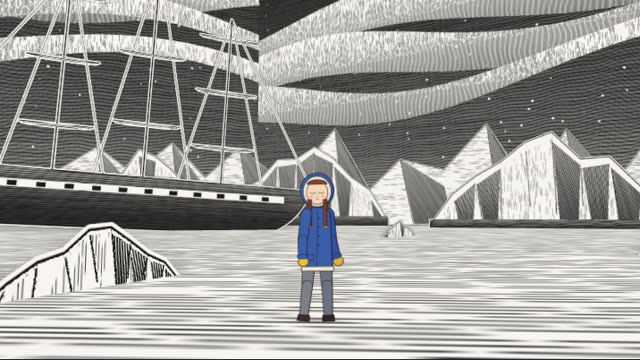
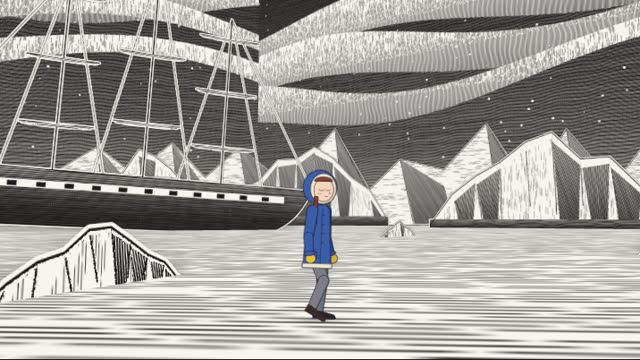
engraving-collage-film: no more teleports — sequential moves, a path check, re-blocked acts
A walk's natural duration ran past the next act's start, so the root jumped to the walk's end (up to 3 m in a frame).
Moves now run one after another (a walk without dur ends at the next move; other overlaps queue); check.mjs fails a
root that moves > 0.35 m in a frame, a walk hurried past 1.5×, a queued act. Walk stride 1.2 leg (0.83 m/s), jump air
travel at constant speed, leaps ≈ 2 m; both pieces re-blocked; samples, demo copies, docs and LESSONS updated.
CONTRIBUTING: the motion checks now include the root path (teleports).

Claude-Session: https://claude.ai/code/session_01LWivNfDGNNAYazJS3JgjnJ

Changed region(s): [[0.4375, 0.4583, 0.5625, 0.9167]]

diff --git a/docs/engraving-collage-film/demo/lib/film.js b/docs/engraving-collage-film/demo/lib/film.js
@@ -27,13 +27,24 @@ class Track {
     this.stride = { walk: strideOf(ch, 'walk') * this.mpp, run: strideOf(ch, 'run') * this.mpp };
     // build segments with absolute times and endpoints
     let pos = [...this.start.pos], face = this.start.face, view = this.start.view;
-    this.segs = []; this.events = [];
+    this.segs = []; this.events = []; this.issues = [];
+    // moves (walk / run / turn / do) happen one after another, never on top of each other — an overlap would make the
+    // root jump to the end of the unfinished move (a teleport). A walk / run without its own dur ends when the next move
+    // starts (it hurries; check.mjs fails one hurried past 1.5× its natural speed); any other overlap queues the next move.
+    const moves = acts.slice(1).filter(a => a.walk || a.run || a.turn || a.do).map(a => a.t ?? 0);
+    let busyUntil = -1e9;
     for (const a of acts.slice(1)) {
-      const t = a.t ?? 0;
+      let t = a.t ?? 0;
+      const isMove = a.walk || a.run || a.turn || a.do;
+      if (isMove && t < busyUntil - 1e-6) { this.issues.push({ kind: 'queued', what: a.walk ? 'walk' : a.run ? 'run' : a.turn ? 'turn' : a.do, asked: t, at: +busyUntil.toFixed(2) }); t = busyUntil; }
+      const nextMove = moves.find(m => m > (a.t ?? 0) + 1e-6);
       if (a.walk || a.run) {
         const gait = a.walk ? 'walk' : 'run', to = a.walk || a.run, p1 = [to[0], to.length > 2 ? to[1] : pos[1], to.length > 2 ? to[2] : to[1]];
         const dist = Math.hypot(p1[0] - pos[0], p1[2] - pos[2]), speed = this.stride[gait] / (GAIT_PERIOD[gait] * ch.mass);
-        const dur = a.dur ?? dist / speed * 1.18;
+        const natural = dist / speed * 1.18;
+        let dur = a.dur ?? natural;
+        if (a.dur == null && nextMove != null && t + dur > nextMove) dur = Math.max(0.3, nextMove - t);
+        if (dur < natural / 1.5) this.issues.push({ kind: 'hurried', what: gait, at: t, x: +(natural / dur).toFixed(2) });
         const f = a.face ?? film.screenFacing(shot, pos, p1, t + dur / 2) ?? face;
         const seg = { kind: gait, t0: t, t1: t + dur, p0: [...pos], p1, face: f, view: a.view || (view === 'front' || view === 'back' ? 'side' : view), dist };
         // 2.5-D: the legs stride across the card, so the cycle advances by the travel ACROSS the screen (the depth part of a
@@ -44,15 +55,15 @@ class Track {
           acc += Math.abs(v3.dot(v3.sub(P, prevP), r)); seg.lat.push(acc); prevP = P;
         }
         seg.latFrac = dist > 1e-6 ? acc / dist : 1;
-        this.segs.push(seg);
+        this.segs.push(seg); busyUntil = t + dur;
         pos = p1; face = f; view = a.view || (view === 'front' || view === 'back' ? 'side' : view);
       } else if (a.turn) {
         const dur = actionDur('turnStep', ch.mass);
-        this.segs.push({ kind: 'turn', t0: t, t1: t + dur, from: view, to: a.turn, face0: face, face1: a.face ?? face, at: [...pos] });
+        this.segs.push({ kind: 'turn', t0: t, t1: t + dur, from: view, to: a.turn, face0: face, face1: a.face ?? face, at: [...pos] }); busyUntil = t + dur;
         view = a.turn; face = a.face ?? face;
       } else if (a.do) {
         const dur = actionDur(a.do, ch.mass);
-        this.segs.push({ kind: 'do', name: a.do, t0: t, t1: t + dur, at: [...pos], to: a.to ? [a.to[0], pos[1], a.to[1]] : null, face, view });
+        this.segs.push({ kind: 'do', name: a.do, t0: t, t1: t + dur, at: [...pos], to: a.to ? [a.to[0], pos[1], a.to[1]] : null, face, view }); busyUntil = t + dur;
         if (a.to) pos = [a.to[0], pos[1], a.to[1]];
       }
       if (a.expr) this.events.push({ t, expr: a.expr });
@@ -68,7 +79,7 @@ class Track {
     for (const g of this.segs) {
       if (s < g.t0) break;
       if (g.kind === 'walk' || g.kind === 'run') { const u = clamp((s - g.t0) / (g.t1 - g.t0)); pos = v3.lerp(g.p0, g.p1, ease.dolly(u)); }
-      else if (g.kind === 'do' && g.to) { const A = ACTIONS[g.name], u = clamp(((s - g.t0) / this.ch.mass - 0.42) / 0.44); pos = v3.lerp(g.at, g.to, ease.sine(u)); }
+      else if (g.kind === 'do' && g.to) { const u = clamp(((s - g.t0) / this.ch.mass - 0.42) / 0.44); pos = v3.lerp(g.at, g.to, u); }   // in the air the horizontal speed is constant (ballistic)
       else pos = g.at || pos;
     }
     return pos;
@@ -289,7 +300,7 @@ export class Film {
     });
     /** bodies over the whole film: joint ranges, planted feet (world drift in comp px), facing vs screen motion, idle life */
     window.bodyAudit = () => {
-      audit.length = 0; const out = { audit: [], drift: [], facing: [], idle: [] };
+      audit.length = 0; const out = { audit: [], drift: [], facing: [], idle: [], moves: [] };
       for (const sh of this.shots) for (const [name, tr] of Object.entries(this.tracks[sh.i])) {
         const n = Math.round(sh.dur * this.FPS); let prev = null, maxDrift = 0, faceBad = 0, lastA = null, idleMove = 0, idleFrames = 0;
         for (let i = 0; i < n; i++) {
@@ -309,6 +320,8 @@ export class Film {
           lastA = st.angles;
           auditPose(ch, { angles: st.angles, view: st.view });
         }
+        let jump = 0, jumpAt = 0; for (let i = 1; i <= n; i++) { const a = tr.posAt((i - 1) / this.FPS), b = tr.posAt(i / this.FPS), d = Math.hypot(b[0] - a[0], b[1] - a[1], b[2] - a[2]); if (d > jump) { jump = d; jumpAt = i / this.FPS; } }
+        out.moves.push({ shot: sh.i, name, maxStep: +jump.toFixed(3), at: +jumpAt.toFixed(2), issues: tr.issues });
         out.drift.push({ shot: sh.i, name, px: +maxDrift.toFixed(2), across: Math.min(1, ...tr.segs.filter(g => g.lat).map(g => +g.latFrac.toFixed(2))) }); out.facing.push({ shot: sh.i, name, wrong: faceBad }); out.idle.push({ shot: sh.i, name, frames: idleFrames, maxStepDeg: +idleMove.toFixed(3) });
       }
       out.audit = [...new Set(audit)]; return out;

diff --git a/engraving-collage-film/lib/film.js b/engraving-collage-film/lib/film.js
@@ -27,13 +27,24 @@ class Track {
     this.stride = { walk: strideOf(ch, 'walk') * this.mpp, run: strideOf(ch, 'run') * this.mpp };
     // build segments with absolute times and endpoints
     let pos = [...this.start.pos], face = this.start.face, view = this.start.view;
-    this.segs = []; this.events = [];
+    this.segs = []; this.events = []; this.issues = [];
+    // moves (walk / run / turn / do) happen one after another, never on top of each other — an overlap would make the
+    // root jump to the end of the unfinished move (a teleport). A walk / run without its own dur ends when the next move
+    // starts (it hurries; check.mjs fails one hurried past 1.5× its natural speed); any other overlap queues the next move.
+    const moves = acts.slice(1).filter(a => a.walk || a.run || a.turn || a.do).map(a => a.t ?? 0);
+    let busyUntil = -1e9;
     for (const a of acts.slice(1)) {
-      const t = a.t ?? 0;
+      let t = a.t ?? 0;
+      const isMove = a.walk || a.run || a.turn || a.do;
+      if (isMove && t < busyUntil - 1e-6) { this.issues.push({ kind: 'queued', what: a.walk ? 'walk' : a.run ? 'run' : a.turn ? 'turn' : a.do, asked: t, at: +busyUntil.toFixed(2) }); t = busyUntil; }
+      const nextMove = moves.find(m => m > (a.t ?? 0) + 1e-6);
       if (a.walk || a.run) {
         const gait = a.walk ? 'walk' : 'run', to = a.walk || a.run, p1 = [to[0], to.length > 2 ? to[1] : pos[1], to.length > 2 ? to[2] : to[1]];
         const dist = Math.hypot(p1[0] - pos[0], p1[2] - pos[2]), speed = this.stride[gait] / (GAIT_PERIOD[gait] * ch.mass);
-        const dur = a.dur ?? dist / speed * 1.18;
+        const natural = dist / speed * 1.18;
+        let dur = a.dur ?? natural;
+        if (a.dur == null && nextMove != null && t + dur > nextMove) dur = Math.max(0.3, nextMove - t);
+        if (dur < natural / 1.5) this.issues.push({ kind: 'hurried', what: gait, at: t, x: +(natural / dur).toFixed(2) });
         const f = a.face ?? film.screenFacing(shot, pos, p1, t + dur / 2) ?? face;
         const seg = { kind: gait, t0: t, t1: t + dur, p0: [...pos], p1, face: f, view: a.view || (view === 'front' || view === 'back' ? 'side' : view), dist };
         // 2.5-D: the legs stride across the card, so the cycle advances by the travel ACROSS the screen (the depth part of a
@@ -44,15 +55,15 @@ class Track {
           acc += Math.abs(v3.dot(v3.sub(P, prevP), r)); seg.lat.push(acc); prevP = P;
         }
         seg.latFrac = dist > 1e-6 ? acc / dist : 1;
-        this.segs.push(seg);
+        this.segs.push(seg); busyUntil = t + dur;
         pos = p1; face = f; view = a.view || (view === 'front' || view === 'back' ? 'side' : view);
       } else if (a.turn) {
         const dur = actionDur('turnStep', ch.mass);
-        this.segs.push({ kind: 'turn', t0: t, t1: t + dur, from: view, to: a.turn, face0: face, face1: a.face ?? face, at: [...pos] });
+        this.segs.push({ kind: 'turn', t0: t, t1: t + dur, from: view, to: a.turn, face0: face, face1: a.face ?? face, at: [...pos] }); busyUntil = t + dur;
         view = a.turn; face = a.face ?? face;
       } else if (a.do) {
         const dur = actionDur(a.do, ch.mass);
-        this.segs.push({ kind: 'do', name: a.do, t0: t, t1: t + dur, at: [...pos], to: a.to ? [a.to[0], pos[1], a.to[1]] : null, face, view });
+        this.segs.push({ kind: 'do', name: a.do, t0: t, t1: t + dur, at: [...pos], to: a.to ? [a.to[0], pos[1], a.to[1]] : null, face, view }); busyUntil = t + dur;
         if (a.to) pos = [a.to[0], pos[1], a.to[1]];
       }
       if (a.expr) this.events.push({ t, expr: a.expr });
@@ -68,7 +79,7 @@ class Track {
     for (const g of this.segs) {
       if (s < g.t0) break;
       if (g.kind === 'walk' || g.kind === 'run') { const u = clamp((s - g.t0) / (g.t1 - g.t0)); pos = v3.lerp(g.p0, g.p1, ease.dolly(u)); }
-      else if (g.kind === 'do' && g.to) { const A = ACTIONS[g.name], u = clamp(((s - g.t0) / this.ch.mass - 0.42) / 0.44); pos = v3.lerp(g.at, g.to, ease.sine(u)); }
+      else if (g.kind === 'do' && g.to) { const u = clamp(((s - g.t0) / this.ch.mass - 0.42) / 0.44); pos = v3.lerp(g.at, g.to, u); }   // in the air the horizontal speed is constant (ballistic)
       else pos = g.at || pos;
     }
     return pos;
@@ -289,7 +300,7 @@ export class Film {
     });
     /** bodies over the whole film: joint ranges, planted feet (world drift in comp px), facing vs screen motion, idle life */
     window.bodyAudit = () => {
-      audit.length = 0; const out = { audit: [], drift: [], facing: [], idle: [] };
+      audit.length = 0; const out = { audit: [], drift: [], facing: [], idle: [], moves: [] };
       for (const sh of this.shots) for (const [name, tr] of Object.entries(this.tracks[sh.i])) {
         const n = Math.round(sh.dur * this.FPS); let prev = null, maxDrift = 0, faceBad = 0, lastA = null, idleMove = 0, idleFrames = 0;
         for (let i = 0; i < n; i++) {
@@ -309,6 +320,8 @@ export class Film {
           lastA = st.angles;
           auditPose(ch, { angles: st.angles, view: st.view });
         }
+        let jump = 0, jumpAt = 0; for (let i = 1; i <= n; i++) { const a = tr.posAt((i - 1) / this.FPS), b = tr.posAt(i / this.FPS), d = Math.hypot(b[0] - a[0], b[1] - a[1], b[2] - a[2]); if (d > jump) { jump = d; jumpAt = i / this.FPS; } }
+        out.moves.push({ shot: sh.i, name, maxStep: +jump.toFixed(3), at: +jumpAt.toFixed(2), issues: tr.issues });
         out.drift.push({ shot: sh.i, name, px: +maxDrift.toFixed(2), across: Math.min(1, ...tr.segs.filter(g => g.lat).map(g => +g.latFrac.toFixed(2))) }); out.facing.push({ shot: sh.i, name, wrong: faceBad }); out.idle.push({ shot: sh.i, name, frames: idleFrames, maxStepDeg: +idleMove.toFixed(3) });
       }
       out.audit = [...new Set(audit)]; return out;

diff --git a/docs/engraving-collage-film/demo/ice-voyage/index.html b/docs/engraving-collage-film/demo/ice-voyage/index.html
@@ -19,15 +19,15 @@ new Film({
     // 1 · from the masthead down to the ice: Nell walks out across the floe and points at the bergs
     { set: 'floe', dur: 6.0,
       cam: [{ pos: [-6, 9, 8], look: [-1, 1, -10], fov: 44, focus: 16 }, { pos: [-3.2, 2.8, 5.0], look: [-0.6, 1, -5], fov: 42, focus: 8 }, { pos: [-1.2, 1.15, 3.0], look: [0.8, 1.0, -3.4], fov: 40, focus: 5 }],
-      acts: { nell: [{ at: [-4.2, 0, -1.6], face: 1, view: 'side', expr: 'neutral' }, { t: 0.6, walk: [0.6, -2.6] }, { t: 4.0, do: 'point' }, { t: 4.1, expr: 'smile' }] } },
+      acts: { nell: [{ at: [-2.0, 0, -1.9], face: 1, view: 'side', expr: 'neutral' }, { t: 0.4, walk: [0.6, -2.6] }, { t: 4.35, do: 'point' }, { t: 4.45, expr: 'smile' }] } },
     // 2 · she runs along the lead and jumps it; the camera trucks beside her, low on the ice
     { set: 'lead', dur: 5.2, focus: 6,
-      cam: [{ pos: [-5.8, 0.85, 3.4], look: [-3.8, 0.9, -3], fov: 42 }, { pos: [-0.8, 0.95, 3.6], look: [0.6, 1.0, -3.4], fov: 42 }, { pos: [3.4, 1.1, 2.8], look: [4.4, 1.2, -5], fov: 40 }],
-      acts: { nell: [{ at: [-7.6, 0, -1.2], face: 1, view: 'side', expr: 'smile' }, { t: 0.2, run: [-1.2, -1.4] }, { t: 2.0, do: 'jump', to: [1.9, -4.8] }, { t: 3.4, walk: [4.6, -5.2] }] } },
+      cam: [{ pos: [-5.8, 0.85, 3.4], look: [-3.8, 0.9, -3], fov: 42 }, { pos: [-0.8, 0.95, 3.6], look: [0.6, 1.0, -3.4], fov: 42 }, { pos: [1.6, 1.1, 2.6], look: [1.6, 1.2, -5], fov: 40 }],
+      acts: { nell: [{ at: [-5.0, 0, -1.2], face: 1, view: 'side', expr: 'smile' }, { t: 0.2, run: [-1.2, -1.8] }, { t: 2.2, do: 'jump', to: [-0.3, -4.1] }, { t: 3.4, walk: [1.6, -4.5] }] } },
     // 3 · night: she turns to us under the aurora, looks up and waves at it
     { set: 'night', dur: 5.6,
       cam: [{ pos: [0.6, 1.0, 5.4], look: [0, 1.3, -2], fov: 40, focus: 5.4 }, { pos: [0.2, 0.9, 3.9], look: [0, 1.6, -3], fov: 42, focus: 4.0 }, { pos: [-0.3, 0.8, 3.4], look: [0, 2.0, -8], fov: 44, focus: 3.6 }],
-      acts: { nell: [{ at: [-1.4, 0, 0.2], face: 1, view: 'threeq', expr: 'neutral' }, { t: 0.3, walk: [0.1, 0.0], view: 'threeq' }, { t: 1.6, turn: 'front' }, { t: 2.3, do: 'lookUp' }, { t: 2.5, expr: 'surprise' }, { t: 3.7, do: 'wave' }, { t: 3.8, expr: 'smile' }] } },
+      acts: { nell: [{ at: [-0.9, 0, 0.2], face: 1, view: 'threeq', expr: 'neutral' }, { t: 0.3, walk: [0.1, 0.0], view: 'threeq' }, { t: 1.8, turn: 'front' }, { t: 2.4, do: 'lookUp' }, { t: 2.6, expr: 'surprise' }, { t: 3.8, do: 'wave' }, { t: 3.9, expr: 'smile' }] } },
   ],
 }).start();
 </script>

diff --git a/engraving-collage-film/examples/ice-voyage/index.html b/engraving-collage-film/examples/ice-voyage/index.html
@@ -19,15 +19,15 @@ new Film({
     // 1 · from the masthead down to the ice: Nell walks out across the floe and points at the bergs
     { set: 'floe', dur: 6.0,
       cam: [{ pos: [-6, 9, 8], look: [-1, 1, -10], fov: 44, focus: 16 }, { pos: [-3.2, 2.8, 5.0], look: [-0.6, 1, -5], fov: 42, focus: 8 }, { pos: [-1.2, 1.15, 3.0], look: [0.8, 1.0, -3.4], fov: 40, focus: 5 }],
-      acts: { nell: [{ at: [-4.2, 0, -1.6], face: 1, view: 'side', expr: 'neutral' }, { t: 0.6, walk: [0.6, -2.6] }, { t: 4.0, do: 'point' }, { t: 4.1, expr: 'smile' }] } },
+      acts: { nell: [{ at: [-2.0, 0, -1.9], face: 1, view: 'side', expr: 'neutral' }, { t: 0.4, walk: [0.6, -2.6] }, { t: 4.35, do: 'point' }, { t: 4.45, expr: 'smile' }] } },
     // 2 · she runs along the lead and jumps it; the camera trucks beside her, low on the ice
     { set: 'lead', dur: 5.2, focus: 6,
-      cam: [{ pos: [-5.8, 0.85, 3.4], look: [-3.8, 0.9, -3], fov: 42 }, { pos: [-0.8, 0.95, 3.6], look: [0.6, 1.0, -3.4], fov: 42 }, { pos: [3.4, 1.1, 2.8], look: [4.4, 1.2, -5], fov: 40 }],
-      acts: { nell: [{ at: [-7.6, 0, -1.2], face: 1, view: 'side', expr: 'smile' }, { t: 0.2, run: [-1.2, -1.4] }, { t: 2.0, do: 'jump', to: [1.9, -4.8] }, { t: 3.4, walk: [4.6, -5.2] }] } },
+      cam: [{ pos: [-5.8, 0.85, 3.4], look: [-3.8, 0.9, -3], fov: 42 }, { pos: [-0.8, 0.95, 3.6], look: [0.6, 1.0, -3.4], fov: 42 }, { pos: [1.6, 1.1, 2.6], look: [1.6, 1.2, -5], fov: 40 }],
+      acts: { nell: [{ at: [-5.0, 0, -1.2], face: 1, view: 'side', expr: 'smile' }, { t: 0.2, run: [-1.2, -1.8] }, { t: 2.2, do: 'jump', to: [-0.3, -4.1] }, { t: 3.4, walk: [1.6, -4.5] }] } },
     // 3 · night: she turns to us under the aurora, looks up and waves at it
     { set: 'night', dur: 5.6,
       cam: [{ pos: [0.6, 1.0, 5.4], look: [0, 1.3, -2], fov: 40, focus: 5.4 }, { pos: [0.2, 0.9, 3.9], look: [0, 1.6, -3], fov: 42, focus: 4.0 }, { pos: [-0.3, 0.8, 3.4], look: [0, 2.0, -8], fov: 44, focus: 3.6 }],
-      acts: { nell: [{ at: [-1.4, 0, 0.2], face: 1, view: 'threeq', expr: 'neutral' }, { t: 0.3, walk: [0.1, 0.0], view: 'threeq' }, { t: 1.6, turn: 'front' }, { t: 2.3, do: 'lookUp' }, { t: 2.5, expr: 'surprise' }, { t: 3.7, do: 'wave' }, { t: 3.8, expr: 'smile' }] } },
+      acts: { nell: [{ at: [-0.9, 0, 0.2], face: 1, view: 'threeq', expr: 'neutral' }, { t: 0.3, walk: [0.1, 0.0], view: 'threeq' }, { t: 1.8, turn: 'front' }, { t: 2.4, do: 'lookUp' }, { t: 2.6, expr: 'surprise' }, { t: 3.8, do: 'wave' }, { t: 3.9, expr: 'smile' }] } },
   ],
 }).start();
 </script>

diff --git a/docs/engraving-collage-film/demo/starter/index.html b/docs/engraving-collage-film/demo/starter/index.html
@@ -24,11 +24,11 @@ new Film({
     // 2 · he stops at the foot of the clock tower and looks up; the camera cranes up to the clock face
     { set: 'square', dur: 5.4, ease: 'dolly',
       cam: [{ pos: [2.6, 1.0, 3.4], look: [0.2, 1.0, -3.6], fov: 42, focus: 6 }, { pos: [2.2, 1.6, 3.0], look: [0.2, 2.6, -6], fov: 44, focus: 7 }, { pos: [1.2, 4.2, 2.0], look: [0, 22, -16], fov: 46, focus: 22 }],
-      acts: { oto: [{ at: [-3.6, 0, -2.2], face: 1, view: 'side', expr: 'neutral', hold: 'key' }, { t: 0.1, walk: [0.3, -3.6], view: 'threeq' }, { t: 2.3, do: 'lookUp' }, { t: 2.5, expr: 'surprise' }] } },
+      acts: { oto: [{ at: [-1.6, 0, -2.9], face: 1, view: 'side', expr: 'neutral', hold: 'key' }, { t: 0.1, walk: [0.3, -3.6], view: 'threeq' }, { t: 3.0, do: 'lookUp' }, { t: 3.2, expr: 'surprise' }] } },
     // 3 · on the belfry ledge he turns to us and waves the balloon by; the camera swings round him over the roofs
     { set: 'roofs', dur: 5.6,
       cam: [{ pos: [-3.2, 1.6, 3.6], look: [0.3, 0.9, -1], fov: 40, focus: 4.5 }, { pos: [0.2, 1.3, 4.4], look: [0, 1.2, -2], fov: 40, focus: 4.4 }, { pos: [3.2, 1.9, 3.4], look: [-0.6, 1.6, -4], fov: 42, focus: 5 }],
-      acts: { oto: [{ at: [-0.8, 0, 0.3], face: 1, view: 'threeq', expr: 'smile', hold: 'key' }, { t: 0.4, walk: [0.4, 0.4], view: 'threeq' }, { t: 1.9, turn: 'front' }, { t: 2.6, do: 'wave' }, { t: 2.7, expr: 'smile' }] } },
+      acts: { oto: [{ at: [-0.8, 0, 0.3], face: 1, view: 'threeq', expr: 'smile', hold: 'key' }, { t: 0.4, walk: [0.4, 0.4], view: 'threeq' }, { t: 2.15, turn: 'front' }, { t: 2.8, do: 'wave' }, { t: 2.9, expr: 'smile' }] } },
   ],
 }).start();
 </script>

diff --git a/engraving-collage-film/templates/index.html b/engraving-collage-film/templates/index.html
@@ -24,11 +24,11 @@ new Film({
     // 2 · he stops at the foot of the clock tower and looks up; the camera cranes up to the clock face
     { set: 'square', dur: 5.4, ease: 'dolly',
       cam: [{ pos: [2.6, 1.0, 3.4], look: [0.2, 1.0, -3.6], fov: 42, focus: 6 }, { pos: [2.2, 1.6, 3.0], look: [0.2, 2.6, -6], fov: 44, focus: 7 }, { pos: [1.2, 4.2, 2.0], look: [0, 22, -16], fov: 46, focus: 22 }],
-      acts: { oto: [{ at: [-3.6, 0, -2.2], face: 1, view: 'side', expr: 'neutral', hold: 'key' }, { t: 0.1, walk: [0.3, -3.6], view: 'threeq' }, { t: 2.3, do: 'lookUp' }, { t: 2.5, expr: 'surprise' }] } },
+      acts: { oto: [{ at: [-1.6, 0, -2.9], face: 1, view: 'side', expr: 'neutral', hold: 'key' }, { t: 0.1, walk: [0.3, -3.6], view: 'threeq' }, { t: 3.0, do: 'lookUp' }, { t: 3.2, expr: 'surprise' }] } },
     // 3 · on the belfry ledge he turns to us and waves the balloon by; the camera swings round him over the roofs
     { set: 'roofs', dur: 5.6,
       cam: [{ pos: [-3.2, 1.6, 3.6], look: [0.3, 0.9, -1], fov: 40, focus: 4.5 }, { pos: [0.2, 1.3, 4.4], look: [0, 1.2, -2], fov: 40, focus: 4.4 }, { pos: [3.2, 1.9, 3.4], look: [-0.6, 1.6, -4], fov: 42, focus: 5 }],
-      acts: { oto: [{ at: [-0.8, 0, 0.3], face: 1, view: 'threeq', expr: 'smile', hold: 'key' }, { t: 0.4, walk: [0.4, 0.4], view: 'threeq' }, { t: 1.9, turn: 'front' }, { t: 2.6, do: 'wave' }, { t: 2.7, expr: 'smile' }] } },
+      acts: { oto: [{ at: [-0.8, 0, 0.3], face: 1, view: 'threeq', expr: 'smile', hold: 'key' }, { t: 0.4, walk: [0.4, 0.4], view: 'threeq' }, { t: 2.15, turn: 'front' }, { t: 2.8, do: 'wave' }, { t: 2.9, expr: 'smile' }] } },
   ],
 }).start();
 </script>

diff --git a/docs/engraving-collage-film/index.html b/docs/engraving-collage-film/index.html
@@ -106,8 +106,8 @@ node ../../scripts/new-piece.mjs ../../../my-film</code></pre>
         <a class="tile" data-tags="st" href="demo/starter/?t=13.8" target="_blank" rel="noopener">
           <img src="samples/st-13_8.jpg" alt="종탑 난간 위의 오토와 아래로 보이는 지붕과 굴뚝들, 판화 하늘" loading="lazy" width="640" height="360">
           <div class="cap"><span class="no">샷 3 · 오빗</span><b>종탑 난간</b><span class="how">작품에서 새로 새긴 난간 · 땅에 묻어 지붕만 보이게 한 파사드</span></div></a>
-        <a class="tile" data-tags="st" href="demo/starter/?t=16.2" target="_blank" rel="noopener">
-          <img src="samples/st-16_2.jpg" alt="정면으로 돌아선 오토가 놋쇠 열쇠를 들고 서 있고 뒤로 열기구가 지나감" loading="lazy" width="640" height="360">
+        <a class="tile" data-tags="st" href="demo/starter/?t=15.2" target="_blank" rel="noopener">
+          <img src="samples/st-15_2.jpg" alt="정면으로 돌아선 오토가 놋쇠 열쇠를 들고 서 있고 뒤로 열기구가 지나감" loading="lazy" width="640" height="360">
           <div class="cap"><span class="no">샷 3 · 손 흔들기</span><b>열기구에게</b><span class="how">돌아서기 → 손 흔들기, 열기구 카드가 흘러감</span></div></a>
       </div>
     </div>

diff --git a/docs/engraving-collage-film/demo/lib/rig.js b/docs/engraving-collage-film/demo/lib/rig.js
@@ -214,7 +214,7 @@ function upper(keys, p) {
  * stride / lift / bob are in leg lengths (thigh + shin); phase 0 = the near heel strikes.
  */
 export const GAITS = {
-  walk: { stride: 1.0, stance: 0.6, lift: 0.09, bob: 0.014, height: 0.995, toeUp: -14, heelRise: 24, upper: [
+  walk: { stride: 1.2, stance: 0.6, lift: 0.09, bob: 0.016, height: 0.995, toeUp: -14, heelRise: 24, upper: [
     [0.00, { arm: [20, -12], torso: 3, head: -1 }], [0.25, { arm: [2, -14], torso: 3.5, head: 1 }],
     [0.50, { arm: [-18, -26], torso: 3, head: -1 }], [0.75, { arm: [0, -16], torso: 3.5, head: 1 }]] },
   run: { stride: 2.1, stance: 0.36, lift: 0.32, bob: 0.04, height: 0.95, toeUp: -8, heelRise: 34, upper: [

diff --git a/engraving-collage-film/lib/rig.js b/engraving-collage-film/lib/rig.js
@@ -214,7 +214,7 @@ function upper(keys, p) {
  * stride / lift / bob are in leg lengths (thigh + shin); phase 0 = the near heel strikes.
  */
 export const GAITS = {
-  walk: { stride: 1.0, stance: 0.6, lift: 0.09, bob: 0.014, height: 0.995, toeUp: -14, heelRise: 24, upper: [
+  walk: { stride: 1.2, stance: 0.6, lift: 0.09, bob: 0.016, height: 0.995, toeUp: -14, heelRise: 24, upper: [
     [0.00, { arm: [20, -12], torso: 3, head: -1 }], [0.25, { arm: [2, -14], torso: 3.5, head: 1 }],
     [0.50, { arm: [-18, -26], torso: 3, head: -1 }], [0.75, { arm: [0, -16], torso: 3.5, head: 1 }]] },
   run: { stride: 2.1, stance: 0.36, lift: 0.32, bob: 0.04, height: 0.95, toeUp: -8, heelRise: 34, upper: [

diff --git a/docs/engraving-collage-film/demo/ice-voyage/world.js b/docs/engraving-collage-film/demo/ice-voyage/world.js
@@ -91,7 +91,7 @@ export const sets = {
     haze: [22, 150, 0.5],
     build(S) {
       floe(S, false);
-      S.floor(lead({ w: 40, d: 2.4, seed: 5 }), { at: [0, 0.01, -3] });
+      S.floor(lead({ w: 40, d: 1.3, seed: 5 }), { at: [0, 0.01, -3] });   // a lead a child can clear (~1.3 m)
       const b = S.card(iceberg({ w: 9, h: 6, seed: 19, ppm: 50 }), { at: [7, -0.3, -12], rot: -25, layer: 'bergs', name: 'riser' });
       S.rise(b, 6.6, 1.0);
     },

diff --git a/engraving-collage-film/examples/ice-voyage/world.js b/engraving-collage-film/examples/ice-voyage/world.js
@@ -91,7 +91,7 @@ export const sets = {
     haze: [22, 150, 0.5],
     build(S) {
       floe(S, false);
-      S.floor(lead({ w: 40, d: 2.4, seed: 5 }), { at: [0, 0.01, -3] });
+      S.floor(lead({ w: 40, d: 1.3, seed: 5 }), { at: [0, 0.01, -3] });   // a lead a child can clear (~1.3 m)
       const b = S.card(iceberg({ w: 9, h: 6, seed: 19, ppm: 50 }), { at: [7, -0.3, -12], rot: -25, layer: 'bergs', name: 'riser' });
       S.rise(b, 6.6, 1.0);
     },

diff --git a/engraving-collage-film/SKILL.md b/engraving-collage-film/SKILL.md
@@ -102,7 +102,9 @@ renders in about 6 min with 4 workers.
    have one (below).
 6. **Shots** in `piece.html`: per shot `set`, `dur`, `cam` keys (`pos`, `look`, `fov`, `focus`), `ease`, `acts`
    (`{ at, face, view }` then `{ t, walk | run: [x, z] }`, `{ t, turn: 'front' }`, `{ t, do: 'wave' }`, `expr`, `look`,
-   `hold`). Walks and runs go **across** the camera (≥ 60 % sideways on screen).
+   `hold`). Walks and runs go **across** the camera (≥ 60 % sideways on screen). Moves never overlap: a child walks
+   about 0.8 m a second and runs about 2.4 (natural duration ≈ distance × 1.4 walking, × 0.5 running), so give a walk
+   its time before the next turn or action; a jump clears about 2 m.
 7. **Review stills**: `render.mjs piece.html --shots --scale .5` (each shot at 15 / 50 / 85 %, comp and breakdown) and
    `--sheet 12`; score the still rubric in references/BRIEF.md. Log failures in BRIEF.md, fix, render again.
 8. **Check**: `node <skill>/scripts/check.mjs piece.html` must end with `all checks passed`. Read the warnings too.
@@ -130,7 +132,10 @@ renders in about 6 min with 4 workers.
   irregularly; big moves wind up the opposite way (≥ 3 frames) and recover with follow-through; hair, braids, scarves and
   hems trail the body's speed of a moment ago; legs on the ground never slide (walks and runs advance by the distance
   travelled, legs solved by IK onto a keyed foot path); turns are stepped; moves run across the camera; the character
-  faces the way they move. check.mjs measures all of it.
+  faces the way they move. Moves (walk / run / turn / do) happen one after another: block each to end before the next
+  starts — the film shortens a walk that would run into the next move and queues any other overlap, and check.mjs fails a
+  walk hurried past 1.5× its natural speed, a queued act, and any root that jumps more than 0.35 m in a frame
+  (a teleport). check.mjs measures all of it.
 - **Motion from key poses.** Every motion is a key table interpolated by the rig, never limbs tweened one by one. A new
   move: get a reference (a video-model clip of the character's still, or filmed / found footage), pick its key poses,
   write them as an `ACTIONS` entry with `antic`, note the reference in BRIEF.md. Generated video stays out of the repo
